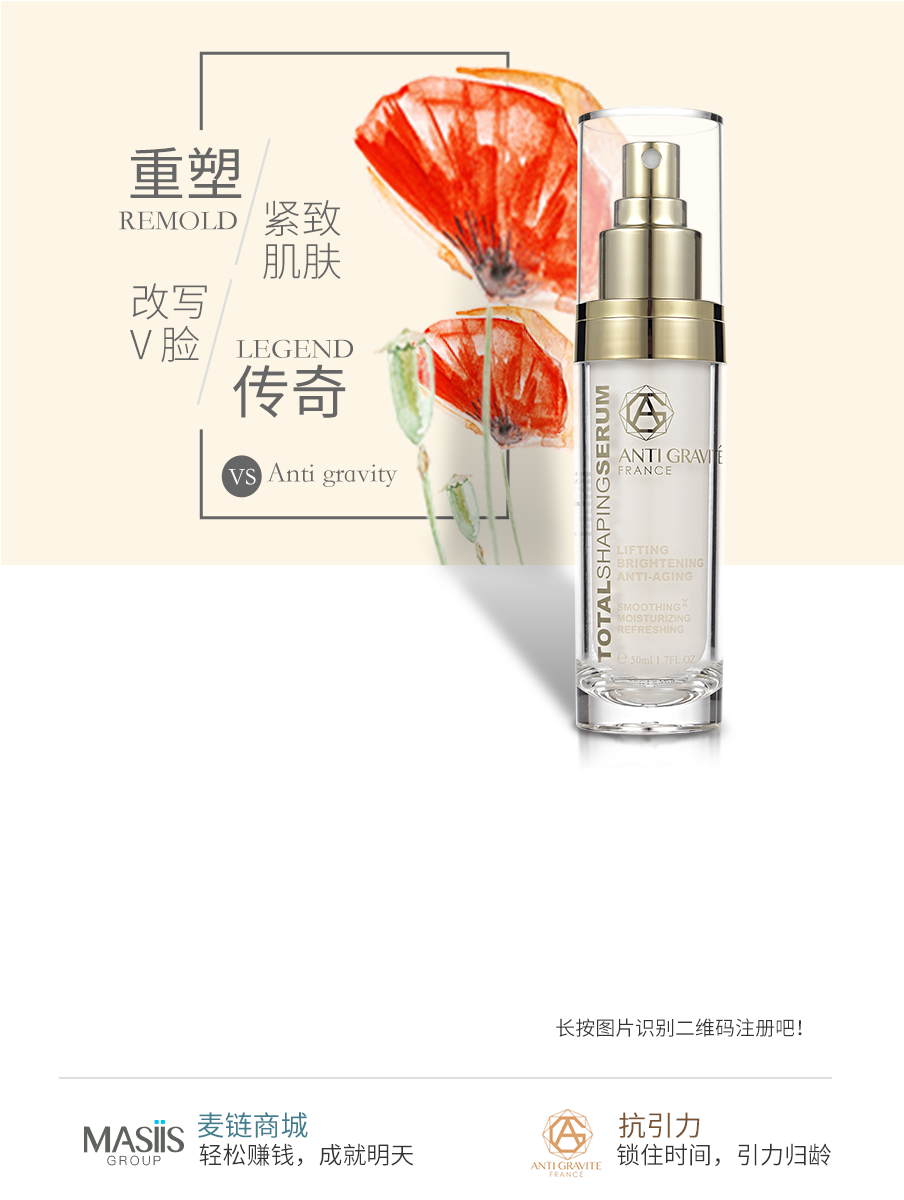
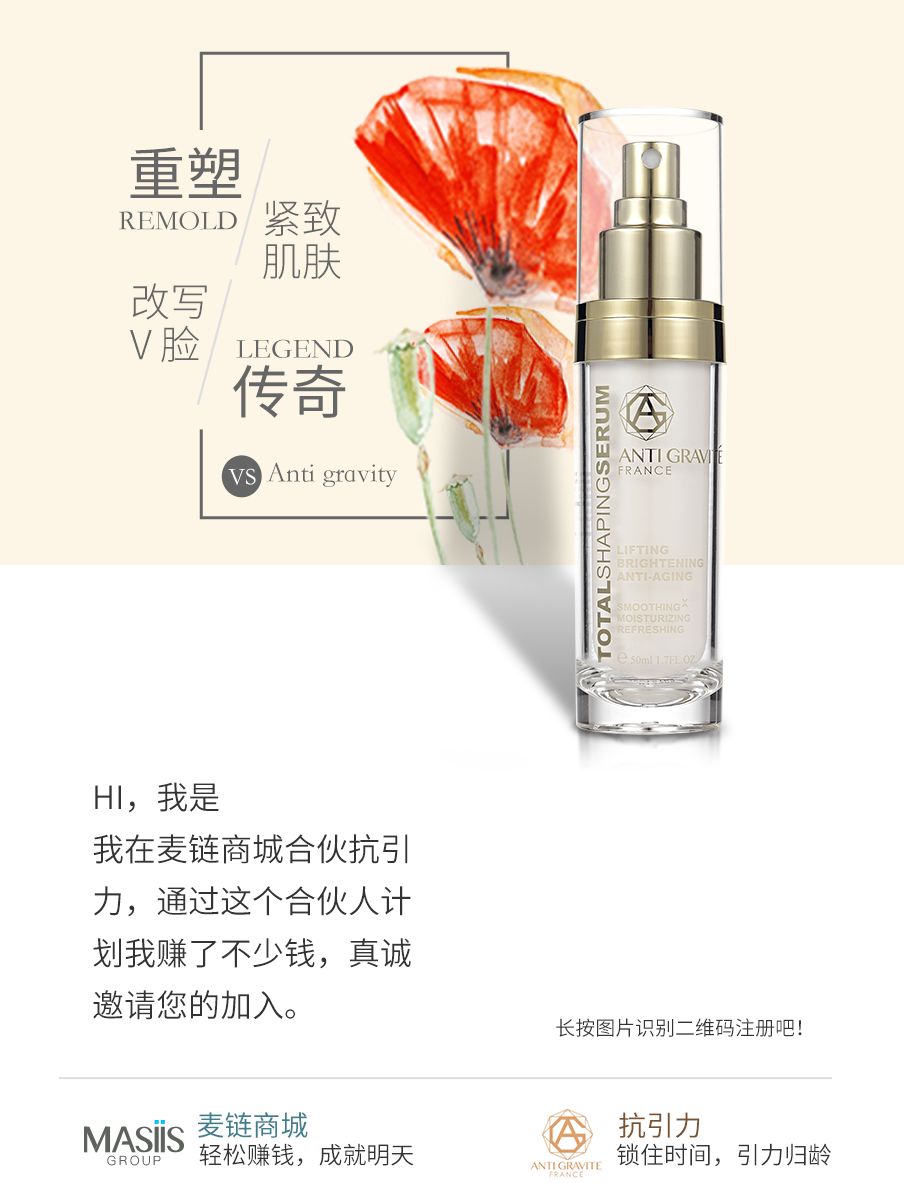
分享-海报

Changed region(s): [[0.0929, 0.6475, 0.4646, 0.8633]]

diff --git a/shop-web/src/main/java/com/masiis/shop/web/platform/controller/user/DevelopingController.java b/shop-web/src/main/java/com/masiis/shop/web/platform/controller/user/DevelopingController.java
@@ -14,6 +14,7 @@ import com.masiis.shop.dao.platform.user.PfUserSkuMapper;
 import com.masiis.shop.dao.po.*;
 import com.masiis.shop.web.platform.constants.WxConstants;
 import com.masiis.shop.web.platform.controller.base.BaseController;
+import com.masiis.shop.web.platform.service.product.SkuService;
 import com.masiis.shop.web.platform.task.JsapiTicketTask;
 import com.masiis.shop.web.platform.utils.DownloadImage;
 import com.masiis.shop.web.platform.utils.SpringRedisUtil;
@@ -52,6 +53,8 @@ public class DevelopingController extends BaseController {
     private ComSkuMapper comSkuMapper;
     @Resource
     private ComSpuMapper comSpuMapper;
+    @Resource
+    private SkuService skuService;
     @Resource
     private ComBrandMapper comBrandMapper;
     @Resource
@@ -121,6 +124,7 @@ public class DevelopingController extends BaseController {
 
             ComUser comUser = comUserMapper.selectByPrimaryKey(32L); //getComUser(request);
             ComSku comSku = comSkuMapper.selectById(skuId);
+            ComSkuExtension comSkuExtension = skuService.findSkuExteBySkuId(skuId);
             ComSpu comSpu = comSpuMapper.selectById(comSku.getSpuId());
             ComBrand comBrand = comBrandMapper.selectById(comSpu.getBrandId());
             String basePath = request.getScheme() + "://" + request.getServerName() + ":" + request.getServerPort() + request.getContextPath() + "/";
@@ -132,22 +136,28 @@ public class DevelopingController extends BaseController {
             List<PfUserCertificate> pfUserCertificates = pfUserCertificateMapper.selectByCondition(puc);
             if(pfUserCertificates != null && pfUserCertificates.size() > 0){
                 PfUserCertificate pfUserCertificate = pfUserCertificates.get(0);
-                if(pfUserCertificate.getPoster() == null || true){
+                if(pfUserCertificate.getPoster() == null){
                     String headImgName = "headimg.png";
-                    String headImgPath = request.getServletContext().getRealPath("/")+"static";
-                    String qrcodeName = pfUserCertificate.getCode()+".png";
+                    String headImgPath = request.getServletContext().getRealPath("/")+"static" + File.separator + "images" + File.separator + "poster";
+                    String qrcodeName = "qrcode.png";
                     String qrcodePath = request.getServletContext().getRealPath("/")+"static"+File.separator+qrcodeName;
                     //下载用户微信头像
-                    String headImgHttpUrl = comUser.getWxHeadImg().substring(0, comUser.getWxHeadImg().lastIndexOf("/")) + "/132";
-                    DownloadImage.download(headImgHttpUrl, headImgName, headImgPath);
+                    if(comUser.getWxHeadImg() != null){
+                        String headImgHttpUrl = comUser.getWxHeadImg().substring(0, comUser.getWxHeadImg().lastIndexOf("/")) + "/132";
+                        DownloadImage.download(headImgHttpUrl, headImgName, headImgPath);
+                        headImgPath += File.separator+headImgName;
+                    }else{//没有微信头像,用默认头像
+                        headImgPath += File.separator+"default.png";
+                    }
                     //生成二维码
                     CreateParseCode.createCode(220,220, shareLink, qrcodePath);
                     //生成海报并上传到OSS
-                    drawPost(request.getServletContext().getRealPath("/")+"static"+File.separator+"images"+File.separator+"poster"+File.separator+"kangyinli.png", qrcodePath, headImgPath+File.separator+headImgName, qrcodeName);
+                    String posterBGImgPath = request.getServletContext().getRealPath("/")+"static"+File.separator+"images"+File.separator+"poster"+File.separator+comSkuExtension.getPoster();
+                    drawPost(posterBGImgPath, qrcodePath, headImgPath, pfUserCertificate.getCode()+".png", comUser.getRealName());
                     //删除本地二维码图片
                     new File(qrcodePath).delete();
                     //保存二维码海报图片地址
-                    pfUserCertificate.setPoster(PropertiesUtils.getStringValue("index_user_poster_url")+qrcodeName);
+                    pfUserCertificate.setPoster(PropertiesUtils.getStringValue("index_user_poster_url")+pfUserCertificate.getCode()+".png");
                     pfUserCertificateMapper.updateById(pfUserCertificate);
                 }
                 resultMap.put("poster", pfUserCertificate.getPoster());
@@ -179,7 +189,7 @@ public class DevelopingController extends BaseController {
      * @param qrcodePath   二维码背景图路径
      * @param saveFileName 保存名字
      */
-    public void drawPost(String bPath, String qrcodePath, String headImgPath, String saveFileName) {
+    public void drawPost(String bPath, String qrcodePath, String headImgPath, String saveFileName, String userName) {
         ImageIcon bImgIcon = new ImageIcon(bPath);
         ImageIcon qrcodeImgIcon = new ImageIcon(qrcodePath);
         ImageIcon headImgIcon = new ImageIcon(headImgPath);
@@ -191,17 +201,14 @@ public class DevelopingController extends BaseController {
         int height = bImage.getHeight(null) == -1 ? 1200 : bImage.getHeight(null);
         BufferedImage bufferedImage = new BufferedImage(width, height, BufferedImage.TYPE_INT_RGB);
         Graphics2D g = bufferedImage.createGraphics();
+
+        g.drawImage(headImage, 88, 619, null);
         g.drawImage(bImage, 0, 0, null);
-        g.drawImage(headImage, 80, 604, null);
-        g.drawRoundRect(80, 604, 132, 132, 66, 66);
         g.drawImage(qrcodeImage, 566, 776, null);
 
-        g.setFont(new Font("宋体", Font.ITALIC, 32));
-        g.setColor(Color.BLACK);
-        g.drawString("Hi,我是张三丰", 80, 788);
-        g.drawString("我在麦链商城合伙抗引力,", 80, 820);
-        g.drawString("通过这个合伙人计划我赚了", 80, 872);
-        g.drawString("不少钱,真诚邀请你加入.", 80, 924);
+        g.setFont(new Font("华文行楷", Font.PLAIN, 32));
+        g.setColor(new Color(51,51,51));
+        g.drawString(userName, 225, 810);
         g.dispose();
 
         try {

diff --git a/shop-web/src/main/java/com/masiis/shop/web/platform/service/product/SkuService.java b/shop-web/src/main/java/com/masiis/shop/web/platform/service/product/SkuService.java
@@ -1,13 +1,11 @@
 package com.masiis.shop.web.platform.service.product;
 
+import com.masiis.shop.dao.platform.product.ComSkuExtensionMapper;
 import com.masiis.shop.dao.platform.product.ComSkuImageMapper;
 import com.masiis.shop.dao.platform.product.ComSkuMapper;
 import com.masiis.shop.dao.platform.product.PfSkuStockMapper;
 import com.masiis.shop.dao.platform.user.PfUserSkuStockMapper;
-import com.masiis.shop.dao.po.ComSku;
-import com.masiis.shop.dao.po.ComSkuImage;
-import com.masiis.shop.dao.po.PfSkuStock;
-import com.masiis.shop.dao.po.PfUserSkuStock;
+import com.masiis.shop.dao.po.*;
 import com.sun.org.apache.bcel.internal.generic.RETURN;
 import com.sun.org.apache.xpath.internal.Expression;
 import org.springframework.expression.ExpressionException;
@@ -31,6 +29,8 @@ public class SkuService {
     @Resource
     private ComSkuImageMapper comSkuImageMapper;
     @Resource
+    private ComSkuExtensionMapper comSkuExtensionMapper;
+    @Resource
     private PfSkuStockMapper pfSkuStockMapper;
     @Resource
     private PfUserSkuStockMapper pfUserSkuStockMapper;
@@ -53,5 +53,14 @@ public class SkuService {
             n = pfUserSkuStock.getStock() - pfUserSkuStock.getFrozenStock();
         }
         return n - quantity;
+    }
+
+    /**
+     * 根据skuId查找skuExtension
+     * @param skuId
+     * @return
+     */
+    public ComSkuExtension findSkuExteBySkuId(Integer skuId){
+        return comSkuExtensionMapper.selectBySkuId(skuId);
     }
 }
